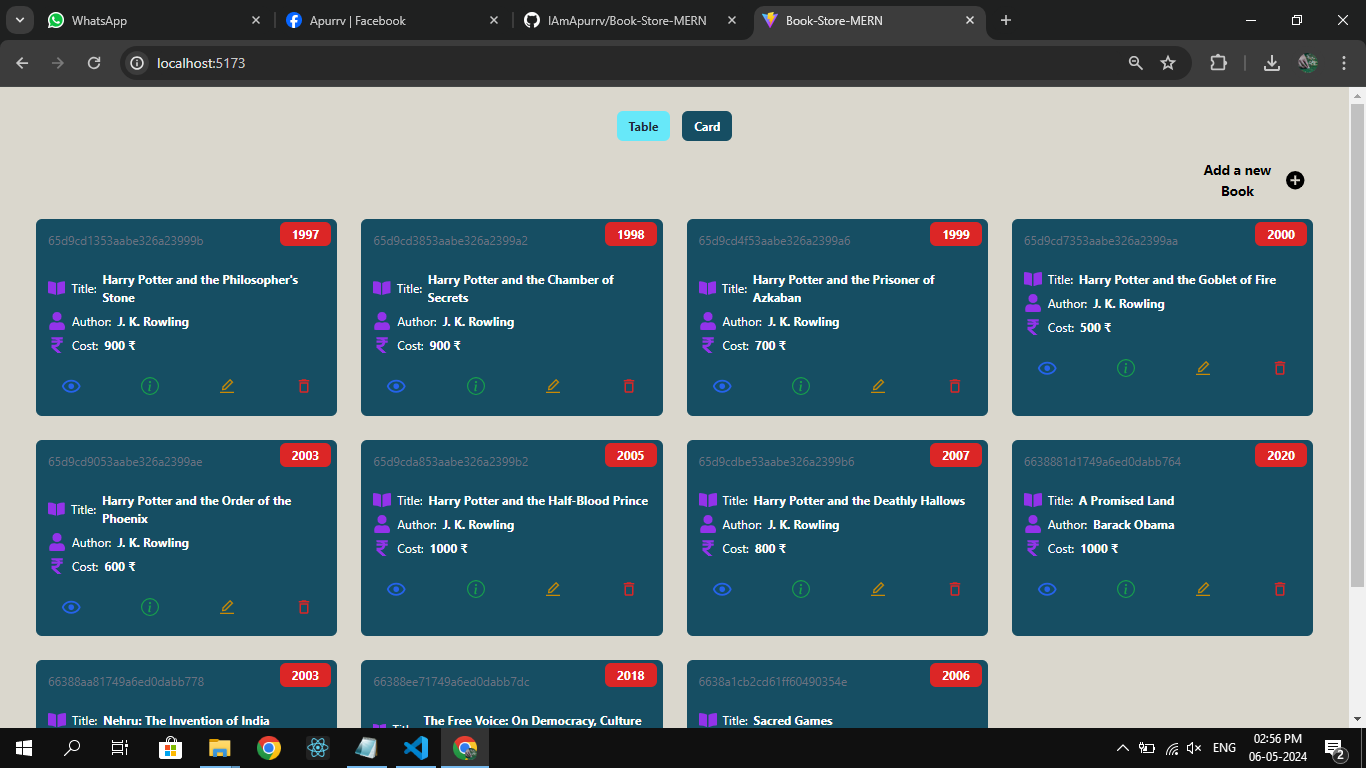
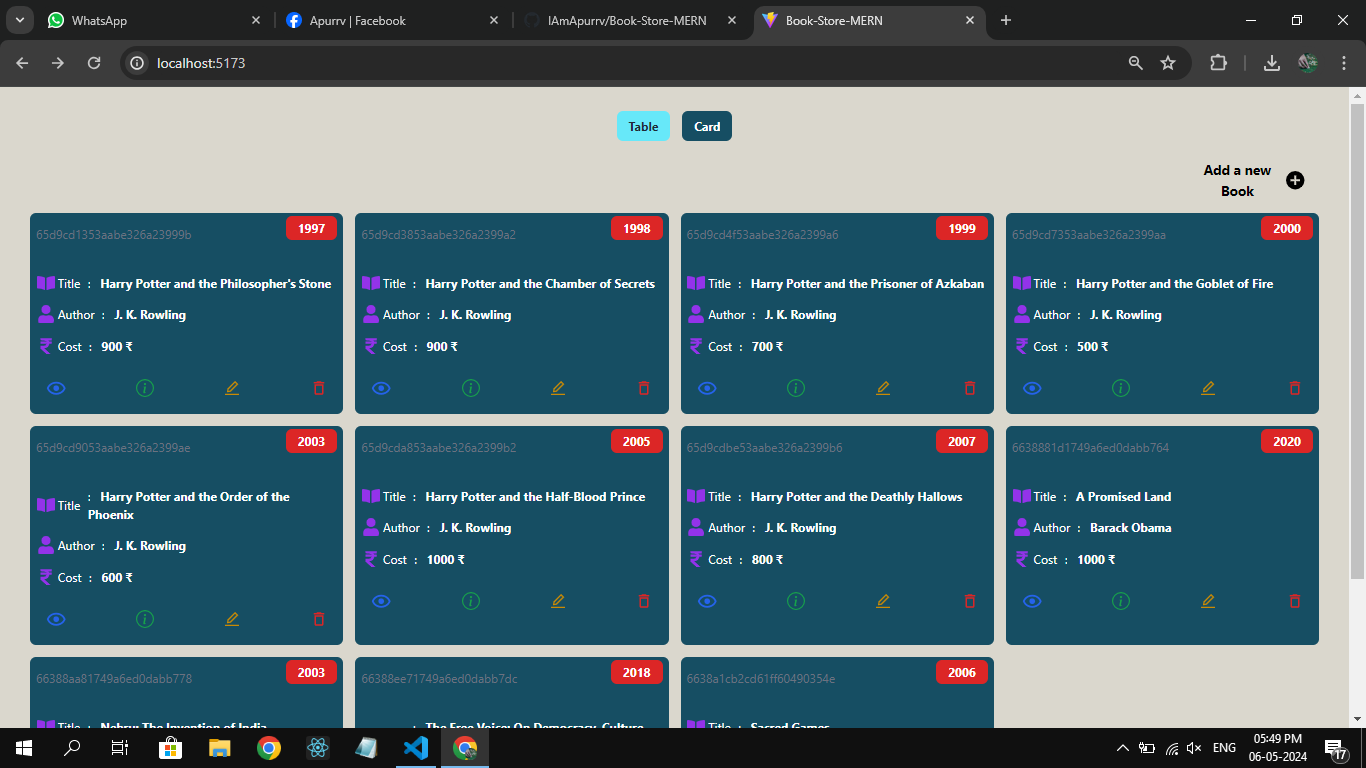
updated

diff --git a/frontend/src/components/home/BookSingleCard.jsx b/frontend/src/components/home/BookSingleCard.jsx
@@ -26,11 +26,36 @@ const BookSingleCard = ({ book }) => {
   };
 
   return (
-    <div className='bg-cyan-900 text-white rounded-lg px-4 py-2 m-4 relative hover:shadow-xl'>
+    <div className='bg-cyan-900 text-white rounded-lg px-2 py-2 m-2 relative hover:shadow-xl'>
       <h4 className='my-2 text-gray-500 mb-6'>{book._id}</h4>
       <b className='absolute top-1 right-2 px-4 py-1 bg-red-600 rounded-lg'>{formatDate(book.publishDate)}</b>
 
-      <div className='flex justify-start items-center gap-x-2'>
+      <table>
+        <tbody>
+          <tr className='my-4 flex justify-start items-center gap-x-2'>
+            <td className='flex items-center gap-x-1'>
+              <FaBookOpen className='text-purple-600 text-2xl' />
+              <h1>Title</h1>
+            </td>
+            <td>: &nbsp;&nbsp;<b>{book.title}</b></td>
+          </tr>
+          <tr className='my-4 flex justify-start items-center gap-x-2'>
+            <td className='flex items-center gap-x-1'>
+              <FaUser className='text-purple-600 text-2xl' />
+              <h1>Author</h1>
+            </td>
+            <td>: &nbsp;&nbsp;<b>{book.author}</b></td>
+          </tr>
+          <tr className='my-4 flex justify-start items-center gap-x-2'>
+            <td className='flex items-center gap-x-1'>
+              <FaRupeeSign className='text-purple-600 text-2xl' />
+              <h1>Cost</h1>
+            </td>
+            <td>: &nbsp;&nbsp;<b>{book.cost} ₹</b></td>
+          </tr>
+        </tbody>
+      </table>
+      {/* <div className='flex justify-start items-center gap-x-2'>
         <FaBookOpen className='text-purple-600 text-2xl' />
         <h1>Title:</h1>
         <b className='my-1'>{book.title}</b>
@@ -44,9 +69,9 @@ const BookSingleCard = ({ book }) => {
         <FaRupeeSign className='text-purple-600 text-2xl' />
         <h1>Cost: </h1>
         <b className='my-1'>{book.cost} ₹</b>
-      </div>
+      </div> */}
 
-      <div className='flex justify-between items-center gap-x-2 mt-2 p-4'>
+      <div className='p-3 flex justify-between items-center gap-x-2'>
         <BiShow className='text-3xl text-blue-600 hover:text-blue-300 cursor-pointer' onClick={() => setShowModal(true)} />
         <Link to={`/books/details/${book._id}`} className='text-green-600 hover:text-green-300'>
           <BsInfoCircle className='text-2xl' />

diff --git a/frontend/src/pages/ShowBook.jsx b/frontend/src/pages/ShowBook.jsx
@@ -85,27 +85,31 @@ const ShowBook = () => {
 
             <div className='my-4'>
               <table>
-                <tr>
-                  <td className='text-xl text-gray-300'>Cost</td>
-                  <td>: &nbsp;&nbsp;&nbsp;<b>{book.cost} ₹</b></td>
-                </tr>
-                <tr>
-                  <td className='text-xl text-gray-300'>Publish Date &nbsp;</td>
-                  <td>: &nbsp;&nbsp;&nbsp;<b>{formatDate(book.publishDate)}</b></td>
-                </tr>
+                <tbody>
+                  <tr>
+                    <td className='text-xl text-gray-300'>Cost</td>
+                    <td>: &nbsp;&nbsp;&nbsp;<b>{book.cost} ₹</b></td>
+                  </tr>
+                  <tr>
+                    <td className='text-xl text-gray-300'>Publish Date &nbsp;</td>
+                    <td>: &nbsp;&nbsp;&nbsp;<b>{formatDate(book.publishDate)}</b></td>
+                  </tr>
+                </tbody>
               </table>
             </div>
 
             <div className='mt-8'>
               <table>
-                <tr>
-                  <td className='text-gray-300'>Book added at &nbsp;</td>
-                  <td>: &nbsp;&nbsp;<b>{formatDate2(book.createdAt)}</b></td>
-                </tr>
-                <tr>
-                  <td className='text-gray-300'>Last update at &nbsp;</td>
-                  <td>: &nbsp;&nbsp;<b>{formatDate2(book.updatedAt)}</b></td>
-                </tr>
+                <tbody>
+                  <tr>
+                    <td className='text-gray-300'>Book added at &nbsp;</td>
+                    <td>: &nbsp;&nbsp;<b>{formatDate2(book.createdAt)}</b></td>
+                  </tr>
+                  <tr>
+                    <td className='text-gray-300'>Last update at &nbsp;</td>
+                    <td>: &nbsp;&nbsp;<b>{formatDate2(book.updatedAt)}</b></td>
+                  </tr>
+                </tbody>
               </table>
             </div>
 

diff --git a/frontend/src/components/home/BooksCard.jsx b/frontend/src/components/home/BooksCard.jsx
@@ -1,9 +1,3 @@
-import { Link } from 'react-router-dom';
-import { PiBookOpenTextLight } from 'react-icons/pi';
-import { BiUserCircle } from 'react-icons/bi';
-import { AiOutlineEdit } from 'react-icons/ai';
-import { BsInfoCircle } from 'react-icons/bs';
-import { MdOutlineDelete } from 'react-icons/md';
 import BookSingleCard from './BookSingleCard';
 
 const BooksCard = ({ books }) => {
